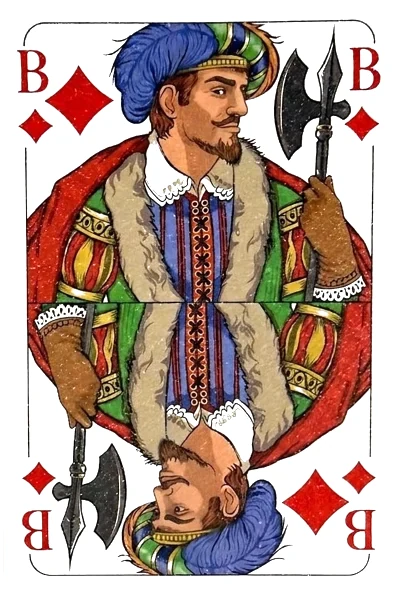
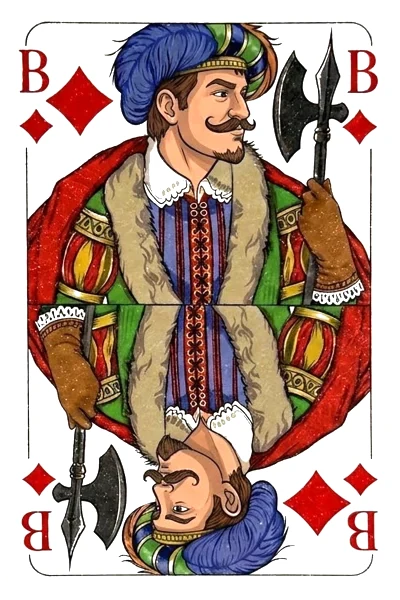
v378: Doppelkopf: Karo Bube, Dame, Koenig als Bilder (alle Karo-Karten komplett)
Claude-Session: https://claude.ai/code/session_01Bq3j1UmgmmQRjdUKFtX7an

diff --git a/sw.js b/sw.js
@@ -4,7 +4,7 @@
 // Nur dann wirft der Browser den alten Zwischenspeicher weg und alle Spieler
 // bekommen zuverlässig die neue Version. Das ist der einzige Handgriff, den man
 // nach dem Bearbeiten von Dateien nicht vergessen darf.
-const CACHE_NAME = "trollhouse-v377";
+const CACHE_NAME = "trollhouse-v378";
 
 const DATEIEN = [
   "./",
@@ -50,7 +50,7 @@ const DATEIEN = [
   "spiele/doppelkopf/spiel.js",
   "spiele/tetris/spiel.js",
   "spiele/doppelkopf/regeln.js",
-  "spiele/doppelkopf/karten.js?v=377",
+  "spiele/doppelkopf/karten.js?v=378",
   "spiele/laenderumrisse/spiel.js",
   "spiele/wo-liegts/spiel.js",
   "spiele/wo-liegts/staedte.js",
@@ -74,24 +74,24 @@ const DATEIEN = [
   "bilder/fussball-auktion/spieler-it-5.png?v=335",
   "bilder/fussball-auktion/spieler-de-1.png?v=335",
   "bilder/doppelkopf-dame.webp",
-  "bilder/doppelkopf/kreuz-9.webp?v=377",
-  "bilder/doppelkopf/kreuz-10.webp?v=377",
-  "bilder/doppelkopf/kreuz-bube.webp?v=377",
-  "bilder/doppelkopf/kreuz-dame.webp?v=377",
-  "bilder/doppelkopf/kreuz-koenig.webp?v=377",
-  "bilder/doppelkopf/kreuz-ass.webp?v=377",
-  "bilder/doppelkopf/pik-9.webp?v=377",
-  "bilder/doppelkopf/pik-10.webp?v=377",
-  "bilder/doppelkopf/pik-bube.webp?v=377",
-  "bilder/doppelkopf/pik-dame.webp?v=377",
-  "bilder/doppelkopf/pik-koenig.webp?v=377",
-  "bilder/doppelkopf/pik-ass.webp?v=377",
-  "bilder/doppelkopf/herz-9.webp?v=377",
-  "bilder/doppelkopf/herz-10.webp?v=377",
-  "bilder/doppelkopf/herz-bube.webp?v=377",
-  "bilder/doppelkopf/herz-dame.webp?v=377",
-  "bilder/doppelkopf/herz-koenig.webp?v=377",
-  "bilder/doppelkopf/herz-ass.webp?v=377",
+  "bilder/doppelkopf/kreuz-9.webp?v=378",
+  "bilder/doppelkopf/kreuz-10.webp?v=378",
+  "bilder/doppelkopf/kreuz-bube.webp?v=378",
+  "bilder/doppelkopf/kreuz-dame.webp?v=378",
+  "bilder/doppelkopf/kreuz-koenig.webp?v=378",
+  "bilder/doppelkopf/kreuz-ass.webp?v=378",
+  "bilder/doppelkopf/pik-9.webp?v=378",
+  "bilder/doppelkopf/pik-10.webp?v=378",
+  "bilder/doppelkopf/pik-bube.webp?v=378",
+  "bilder/doppelkopf/pik-dame.webp?v=378",
+  "bilder/doppelkopf/pik-koenig.webp?v=378",
+  "bilder/doppelkopf/pik-ass.webp?v=378",
+  "bilder/doppelkopf/herz-9.webp?v=378",
+  "bilder/doppelkopf/herz-10.webp?v=378",
+  "bilder/doppelkopf/herz-bube.webp?v=378",
+  "bilder/doppelkopf/herz-dame.webp?v=378",
+  "bilder/doppelkopf/herz-koenig.webp?v=378",
+  "bilder/doppelkopf/herz-ass.webp?v=378",
   "bilder/tetris-stein.webp",
   "bilder/knobeln-streichhoelzer.webp",
   "bilder/merks-dir-karten.webp",

diff --git a/spiele/doppelkopf/karten.js b/spiele/doppelkopf/karten.js
@@ -158,7 +158,7 @@ function index(rang, farbe) {
 const BILD_KARTEN = {
   C9: "kreuz-9", CT: "kreuz-10", CJ: "kreuz-bube", CQ: "kreuz-dame", CK: "kreuz-koenig", CA: "kreuz-ass",
   S9: "pik-9", ST: "pik-10", SJ: "pik-bube", SQ: "pik-dame", SK: "pik-koenig", SA: "pik-ass",
-  D9: "karo-9", DT: "karo-10", DJ: "karo-bube", DA: "karo-ass",
+  D9: "karo-9", DT: "karo-10", DJ: "karo-bube", DQ: "karo-dame", DK: "karo-koenig", DA: "karo-ass",
   H9: "herz-9", HT: "herz-10", HJ: "herz-bube", HQ: "herz-dame", HK: "herz-koenig", HA: "herz-ass",
 };
 export const KARTEN_BILDER = Object.values(BILD_KARTEN).map((n) => `bilder/doppelkopf/${n}.webp`);
@@ -170,7 +170,7 @@ export function kartenSvg(id) {
   if (cache.has(id)) return cache.get(id);
   const bild = BILD_KARTEN[farbe + rang];
   if (bild) {
-    const html = `<img class="dk-karte-svg dk-karte-bild" src="bilder/doppelkopf/${bild}.webp?v=377" alt="${farbe}${rang}" draggable="false">`;
+    const html = `<img class="dk-karte-svg dk-karte-bild" src="bilder/doppelkopf/${bild}.webp?v=378" alt="${farbe}${rang}" draggable="false">`;
     cache.set(id, html);
     return html;
   }

diff --git a/spiele/anleitungen-daten.js b/spiele/anleitungen-daten.js
@@ -6,7 +6,7 @@
 //  Spiels kommt aus szene(). Texte: **fett** wird hervorgehoben.
 //  Alle Regeln stammen aus dem Code der jeweiligen Spiele.
 // ============================================================================
-import { kartenSvg } from "./doppelkopf/karten.js?v=377";
+import { kartenSvg } from "./doppelkopf/karten.js?v=378";
 
 let zaehler = 0;
 const esc = (s) => String(s).replace(/&/g, "&amp;").replace(/</g, "&lt;").replace(/>/g, "&gt;");

diff --git a/spiele/doppelkopf/spiel.js b/spiele/doppelkopf/spiel.js
@@ -23,7 +23,7 @@ import {
 import { spielerKarte, zeigeDebug, initBereitSystem, escapeHtml, avatarHtml } from "../../kern/ui.js";
 import { speichereWertung } from "../../kern/wertung.js";
 import * as R from "./regeln.js";
-import { kartenSvg, rueckSvg } from "./karten.js?v=377";
+import { kartenSvg, rueckSvg } from "./karten.js?v=378";
 
 const VORBEHALT_ZEIT_MS = 30000;
 const BOT_VB_MS = 1400;

diff --git a/app.js b/app.js
@@ -15,7 +15,7 @@ import {
 // Spiel-Fixes (spiele/<id>/spiel.js) verzoegert oder gar nicht mit.
 import { SPIELE, spielInfo } from "./spiele/register.js?v=335";
 
-export const APP_VERSION = "v377";
+export const APP_VERSION = "v378";
 const appVersion = document.getElementById("app-version");
 appVersion.textContent = "Version " + APP_VERSION;
 

diff --git a/spiele/register.js b/spiele/register.js
@@ -18,7 +18,7 @@
 // in der Olympiade trotz Fix in v201/v202 teils noch bestehen lassen.
 // WICHTIG: bei jedem Versionssprung hier UND in app.js (Import von
 // register.js) mit hochzaehlen.
-const SPIEL_VERSION = "377";
+const SPIEL_VERSION = "378";
 
 export const SPIELE = [
   {
